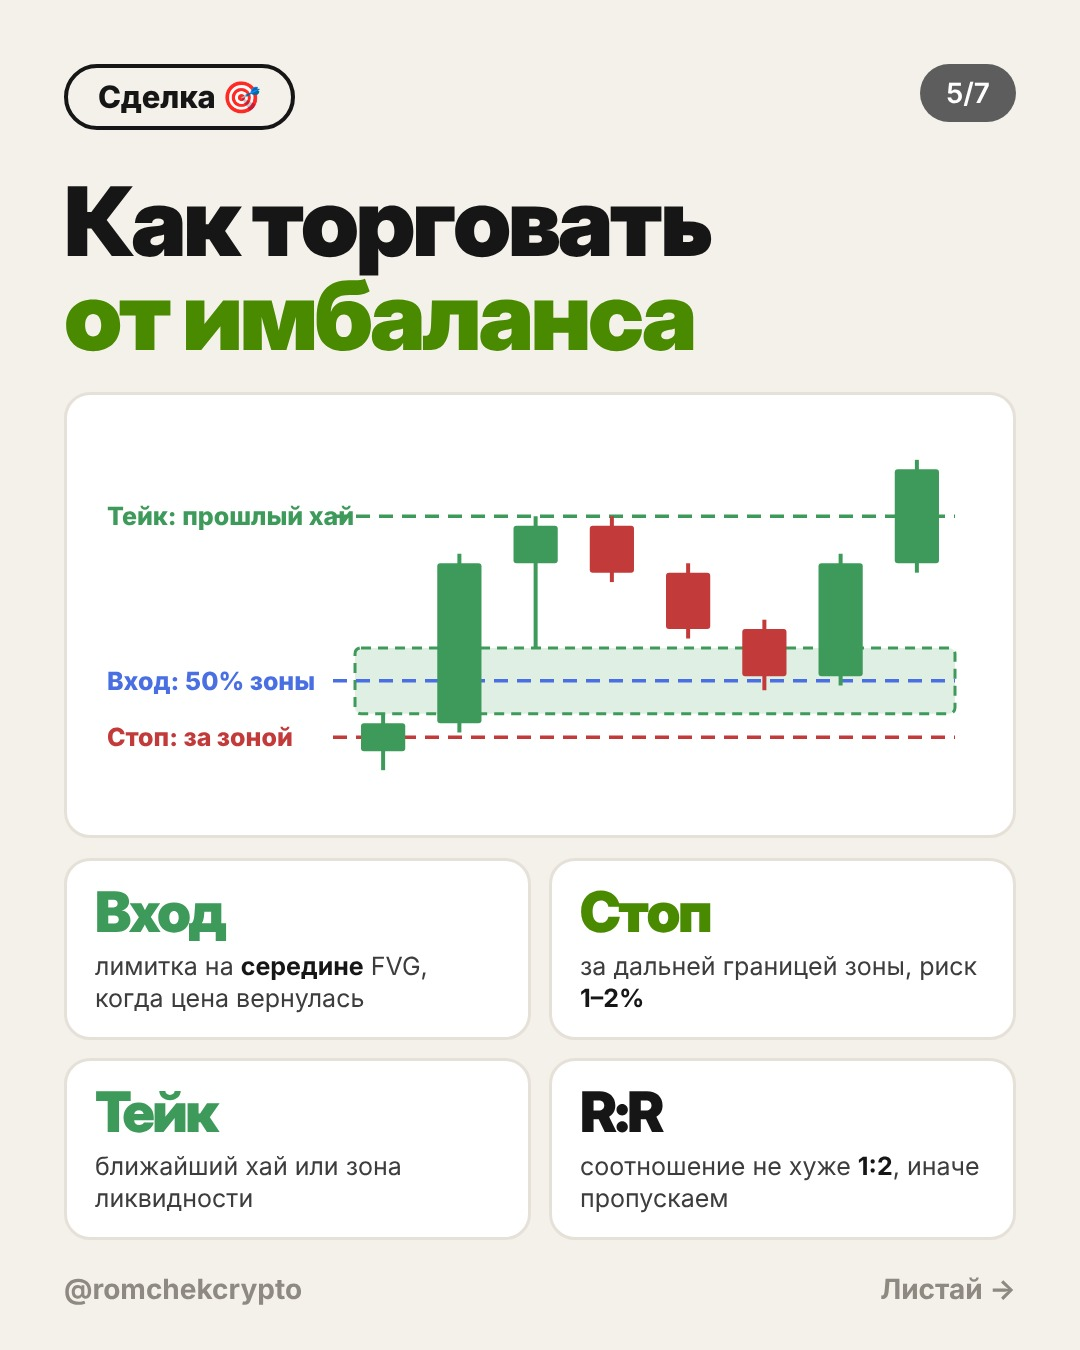
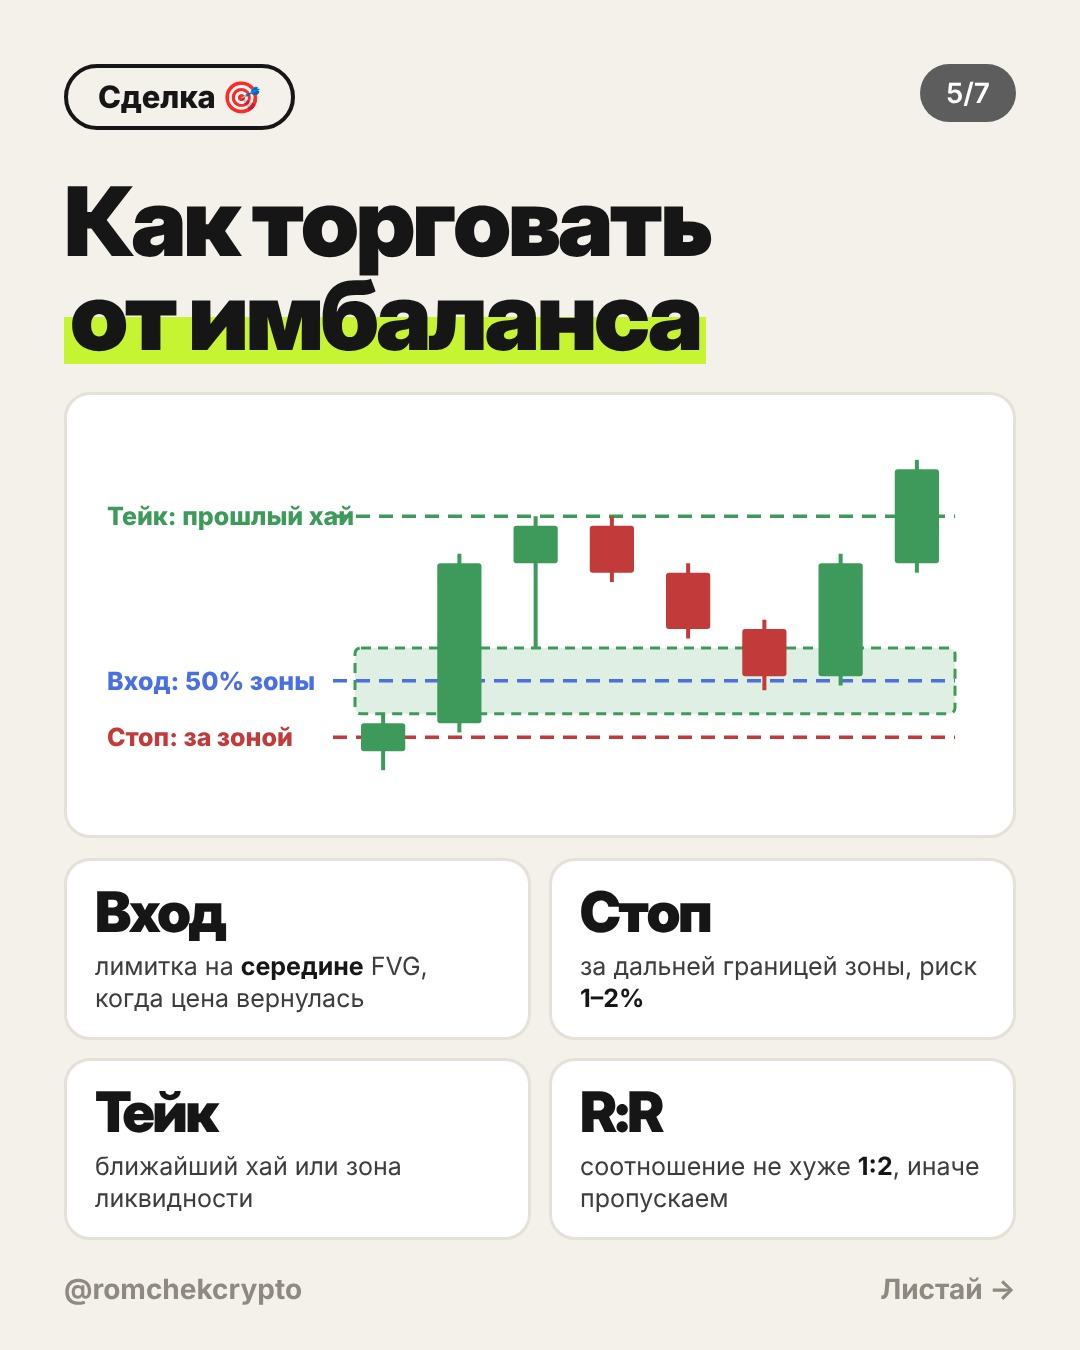
Carousel style: lime marker on cream, no green text; FVG 18:00 re-rendered
Claude-Session: https://claude.ai/code/session_01J5ePgt6e72igxD4CNH1QLb

diff --git a/tools/example_carousel_build.py b/tools/example_carousel_build.py
@@ -13,7 +13,7 @@ body{width:1080px;height:1350px;background:#f6f1eb;font-family:'Inter',sans-seri
 .tag{display:inline-flex;align-items:center;gap:10px;border:3px solid #141414;border-radius:40px;padding:10px 26px;font-weight:800;font-size:30px;background:#fff}
 .cnt{position:absolute;top:52px;right:56px;background:#7a7a7a;color:#fff;border-radius:40px;padding:12px 26px;font-size:30px;font-weight:600}
 h1{font-family:'Inter Display','Inter';font-weight:900;letter-spacing:-2px;line-height:.98;margin-top:34px}
-.red{color:#4a8a00}
+.red{color:#141414;background:linear-gradient(transparent 52%,#c6f432 52%,#c6f432 92%,transparent 92%);padding:0 6px}
 .neg{color:#c62a2f}
 .lime{background:#c6f432;color:#141414;padding:0 12px;border-radius:12px}
 .sub{font-size:34px;font-weight:600;margin-top:22px;line-height:1.25}
@@ -122,7 +122,7 @@ s2 = page(2, f"""<div class='pad'>
 # ---------- slide 3 ----------
 def hist(year, move, res, hl=False):
     bg = "#fbf1d6" if hl else "#fff"; bd = "#e2c36a" if hl else "#e2d9cf"
-    col = "#b8860b" if hl else "#1f9d5a"
+    col = "#b8860b" if hl else "#141414"
     return f"""<div style='display:grid;grid-template-columns:150px 1fr 170px;align-items:center;background:{bg};border:2px solid {bd};border-radius:20px;padding:28px 32px;margin-top:18px'>
 <div style='font-weight:900;font-size:44px'>{year}</div><div style='font-size:34px;font-weight:600;color:#4a4642'>{move}</div>
 <div style='font-weight:900;font-size:46px;color:{col};text-align:right'>{res}</div></div>"""
@@ -145,7 +145,7 @@ s3 = page(3, f"""<div class='pad'>
 def chk(t):
     return f"<div style='display:flex;gap:16px;align-items:flex-start;font-size:28px;margin-top:16px;line-height:1.3'><div style='width:34px;height:34px;border:3px solid #141414;border-radius:6px;flex:none;margin-top:2px'></div><div>{t}</div></div>"
 s4 = page(4, f"""<div class='pad'>
-<div class='tag' style='border-color:#4a8a00'>Шпаргалка ✅</div>
+<div class='tag'>Шпаргалка ✅</div>
 <h1 style='font-size:92px'>Как не попасть<br><span class='red'>в ловушку</span></h1>
 <div style='display:grid;grid-template-columns:1fr 1fr;gap:24px;margin-top:36px'>
  <div style='border:2px solid #e2d9cf;border-radius:22px;overflow:hidden;background:#fff'>
@@ -179,24 +179,24 @@ cs=[]; p=1000; x=600
 for i in range(21):
     o=p; c=o-random.uniform(-14,40); p=c
     hi=min(o,c)-random.uniform(6,18); lo=max(o,c)+random.uniform(6,18)
-    col="#141414" if c<o else "#4a8a00"
+    col="#c62a2f" if c<o else "#141414"
     xx=x+i*20
     cs.append(f"<line x1='{xx}' y1='{hi}' x2='{xx}' y2='{lo}' stroke='{col}' stroke-width='2.5'/><rect x='{xx-6.5}' y='{min(o,c)}' width='13' height='{max(abs(o-c),3)}' fill='{col}'/>")
 icons = [("📊","АНАЛИТИКА<br>РЫНКА"),("🎯","РАЗБОРЫ<br>СДЕЛОК"),("🎓","ОБУЧЕНИЕ<br>ТРЕЙДИНГУ"),("🔖","СОХРАНИ<br>И ПРИМЕНЯЙ")]
-ic = "".join(f"<div style='text-align:center;flex:1'><div style='width:110px;height:110px;border:3px solid #4a8a00;border-radius:50%;background:#f6f1eb;margin:0 auto;display:flex;align-items:center;justify-content:center;font-size:50px'>{a}</div><div style='font-weight:800;font-size:22px;margin-top:14px;line-height:1.25'>{b}</div></div>" for a,b in icons)
+ic = "".join(f"<div style='text-align:center;flex:1'><div style='width:110px;height:110px;border:3px solid #141414;border-radius:50%;background:#f6f1eb;margin:0 auto;display:flex;align-items:center;justify-content:center;font-size:50px'>{a}</div><div style='font-weight:800;font-size:22px;margin-top:14px;line-height:1.25'>{b}</div></div>" for a,b in icons)
 s5 = page(5, f"""
 <svg width='1080' height='1350' style='position:absolute;left:0;top:0'>
 
 {''.join(cs)}
-<path d='M590 1020 Q 900 960 1010 620' fill='none' stroke='#4a8a00' stroke-width='3' stroke-dasharray='10 8'/>
+<path d='M590 1020 Q 900 960 1010 620' fill='none' stroke='#141414' stroke-width='3' stroke-dasharray='10 8'/>
 </svg>
 <div class='pad' style='position:relative'>
-<div style='width:130px;height:130px;border:3px solid #4a8a00;border-radius:50%;display:flex;align-items:center;justify-content:center'>
-<svg width='64' height='64' viewBox='0 0 24 24'><path d='M21.5 3.5 2.8 10.7c-1 .4-1 1.1-.2 1.4l4.8 1.5 1.8 5.6c.2.6.4.8.9.8.4 0 .6-.2.9-.5l2.3-2.2 4.8 3.5c.9.5 1.5.2 1.7-.8L23 4.9c.3-1.3-.5-1.9-1.5-1.4z' fill='#4a8a00'/></svg></div>
+<div style='width:130px;height:130px;border:3px solid #141414;border-radius:50%;display:flex;align-items:center;justify-content:center'>
+<svg width='64' height='64' viewBox='0 0 24 24'><path d='M21.5 3.5 2.8 10.7c-1 .4-1 1.1-.2 1.4l4.8 1.5 1.8 5.6c.2.6.4.8.9.8.4 0 .6-.2.9-.5l2.3-2.2 4.8 3.5c.9.5 1.5.2 1.7-.8L23 4.9c.3-1.3-.5-1.9-1.5-1.4z' fill='#141414'/></svg></div>
 <h1 style='font-size:150px;margin-top:40px;font-family:Inter Display;letter-spacing:-4px'>ВСТУПАЙ<br><span class='red'>В ТГ-КАНАЛ</span></h1>
 <div style='width:110px;height:10px;background:#c6f432;border-radius:5px;margin:34px 0'></div>
 <div style='font-weight:900;font-size:38px;line-height:1.3;width:520px;text-transform:uppercase'>Каждый день: <span class='red'>аналитика рынка,</span> разборы сделок и <span class='red'>обучение</span> трейдингу.</div>
-<div style='margin-top:38px;display:inline-flex;align-items:center;gap:20px;border:3px solid #4a8a00;border-radius:20px;padding:20px 30px;background:#fff'>
+<div style='margin-top:38px;display:inline-flex;align-items:center;gap:20px;border:3px solid #141414;border-radius:20px;padding:20px 30px;background:#fff'>
 <div style='font-size:40px'>🔗</div><div><div style='font-weight:900;font-size:38px' class='red'>@romchekcrypto</div><div style='font-weight:700;font-size:26px;color:#4a4642'>ССЫЛКА В ПРОФИЛЕ</div></div></div>
 </div>
 <div style='position:absolute;left:40px;right:40px;bottom:100px;display:flex'>{ic}</div>

diff --git a/CLAUDE.md b/CLAUDE.md
@@ -27,8 +27,9 @@ caption/hashtag rules below where they conflict.**
 - Before scheduling, check getScheduledPosts for that slot so a post is never scheduled twice.
 
 ## Visual style (approved by the owner; accent changed to LIME on 2026-11-18 — owner finds red off-putting)
-- ACCENT COLORS: dark slides → lime #c6f432 for accent words/numbers; cream slides → green #4a8a00 for accent
-  text and lime #c6f432 for plaques/labels/highlights (text on lime = #141414). Red #c62a2f ONLY for negative
+- ACCENT COLORS: dark slides → lime #c6f432 for accent words/numbers; cream slides → NO green text (owner dislikes it):
+  accent words are black #141414 with a lime MARKER highlight under them (class `.red` in the reference builder),
+  lime #c6f432 plaques/labels/highlights (text on lime = #141414). Red #c62a2f ONLY for negative
   meaning (falling candles, losses, "ошибка", "стоп", "не делай так") — class `.neg` in the reference builder.
 - Format: Instagram carousel, 4:5, 1080×1350, usually 5–7 slides. Counter "N/total" top-right.
 - **Slide 1 (cover):** dark background (#1b1b1b), huge full-width intriguing headline in heavy condensed
@@ -37,7 +38,7 @@ caption/hashtag rules below where they conflict.**
   that makes the crypto topic obvious ("₿ Разбор биткоина", "Ξ Эфириум", "Новости крипты" …);
   "@romchekcrypto" bottom-left, "Листай →" bottom-right.
 - **Middle slides:** light cream background (#f6f1eb), pill tag top-left ("База 🧠", "История 📜",
-  "Шпаргалка ✅", "Сделка 🎯" …), big bold headline black + green (#4a8a00), infographic content: cards, timelines,
+  "Шпаргалка ✅", "Сделка 🎯" …), big bold black headline with lime marker highlight on the key words, infographic content: cards, timelines,
   tables, checklists, schematic candle charts. End cheat-sheet slides with "Сохрани это."
 - **Last slide — ALWAYS:** "ВСТУПАЙ В ТГ-КАНАЛ" CTA with @romchekcrypto and "ССЫЛКА В ПРОФИЛЕ",
   four round icons row, rising candle chart (copy slide 5 from the example as is).
